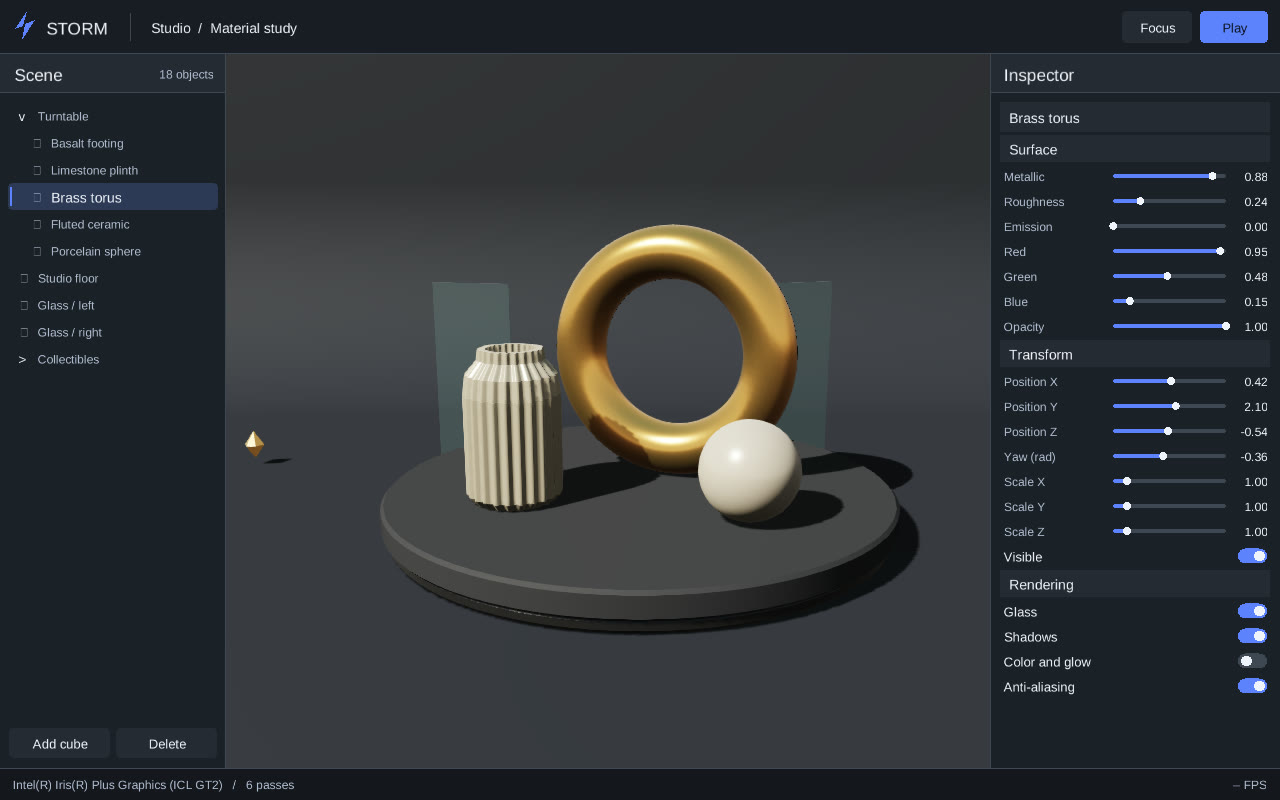
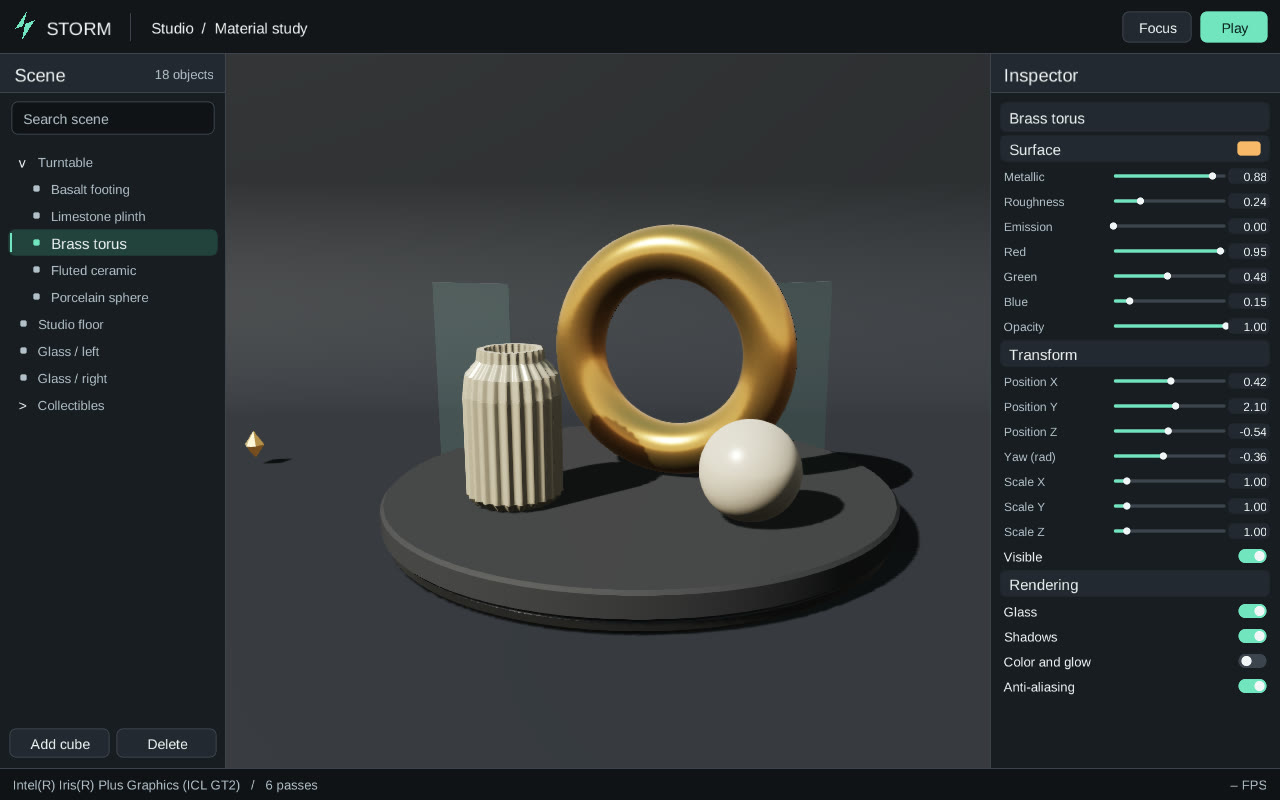
Visa det nya Studio och dokumentera hur agenter ansluter

diff --git a/README.md b/README.md
@@ -40,7 +40,32 @@ dunder run --example scene      # ECS + glTF + textlayout, utan fönster
 dunder test                     # rotpaketets tester
 ```
 
-## Spela och bygg med en agent
+## Redigera Studio med en agent
+
+Starta en lokal Studio-session och anslut MCP-servern `storm-editor` från
+[repots MCP-konfiguration](.mcp.json). Agenten kan läsa det öppna scenträdet,
+söka och välja objekt, skapa grupper och primitiver, ändra transform,
+synlighet och material samt hämta en PNG av samma vy.
+
+```sh
+dunder build -o build/storm
+./build/storm --editor-session .storm-editor
+```
+
+CLI:t använder samma kommandon och skriver JSON. Kör det från reporoten i
+en andra terminal.
+
+```sh
+./build/storm --editor-command '{"name":"tools/list"}'
+./build/storm --editor-session .storm-editor --editor-command '{"name":"editor_inspect"}'
+./build/storm --editor-session .storm-editor --editor-command '{"name":"editor_search","arguments":{"query":"brass"}}'
+```
+
+Sökfältet i Studio matchar namn även inuti stängda grenar. Tab flyttar fokus
+och Esc lämnar sökfältet. Använd `--editor-headless --editor-session FIL` för
+automation utanför ett fönster. Studio-ändringar gäller under sessionen.
+
+## Provspela med en agent
 
 I First light styr du spelaren med WASD eller piltangenterna och hoppar med mellanslag. Q pausar och R börjar om.
 
@@ -50,7 +75,7 @@ dunder build -o build/storm
 ./build/storm --scene bana.storm.json --watch
 ```
 
-Repots [MCP-konfiguration](.mcp.json) startar `./build/storm --mcp` från reporoten. En agent kan bygga en bana, provspela bestämda indata och få både positioner och en PNG från GPU:n. Med `--watch` syns nästa sparade banändring i samma fönster. En sparad bana kan öppnas igen med `--scene`.
+MCP-servern `storm` startar `./build/storm --mcp` från reporoten. En agent kan bygga en bana, provspela bestämda indata och få både positioner och en PNG från GPU:n. Med `--watch` syns nästa sparade banändring i samma fönster. En sparad bana kan öppnas igen med `--scene`. [MCP-konfiguration](.mcp.json)
 
 ## Paket
 
@@ -70,14 +95,14 @@ Storms egna paket följer med i samma Git-klon och kan byggas och testas var fö
 | [`packages/storm-assets`](packages/storm-assets) | Placerar glTF-modeller i scenen och laddar deras materialtexturer genom grafikgränssnittet. | `core`, `ecs`, `gfx`, `gltf`, `image`, `scene` |
 | [`packages/storm-physics`](packages/storm-physics) | Gravitation, impulser, friktion och kollisioner mellan sfärer och axelriktade lådor. | `core` |
 | [`packages/storm-runtime`](packages/storm-runtime) | Spelfönster, provspelningens klocka, scenbevakning och projektgränssnittet `Project`. | Grafikgränssnitt, renderare, scen, indata och UI |
-| [`packages/storm-editor`](packages/storm-editor) | Scenträd, objektval, inspektör och scenredigering. | Scen, ECS och UI |
-| [`packages/storm-studio`](packages/storm-studio) | Materialstudie och redigeringsläge i Storms utvecklarprogram. | Runtime, editor och tillgångar |
+| [`packages/storm-editor`](packages/storm-editor) | Sökbart scenträd, objektval, inspektör och typade redigeringskommandon. | Scen, ECS och UI |
+| [`packages/storm-studio`](packages/storm-studio) | Materialstudie, arbetsyta och lokal redigeringssession för MCP och CLI. | Runtime, editor, tillgångar och MCP |
 | [`packages/storm-play`](packages/storm-play) | Scenformat, fast simuleringstakt, spelarkontroll och målsensorer. | `core`, `physics` |
-| [`packages/storm-mcp`](packages/storm-mcp) | Agentverktyg över stdio som styr samma spelsession som fönstret. | `play`, `image` |
+| [`packages/storm-mcp`](packages/storm-mcp) | JSON-RPC över stdio, validering av verktygsargument och First light-verktyg. | `play`, `image` |
 | [`packages/storm-image`](packages/storm-image) | Renderarens bild som PNG, och PNG samt JPEG (baseline och progressivt; 4:4:4, 4:2:2, 4:2:0, grå, restart-markörer) som RGBA8, valt på filens signatur — 12-bitars JPEG, bitdjup 16 i PNG och Adam7 vägras. Ren Dunder, zlib från Dunder-repot. | `zlib` (git) |
 | [`packages/storm-input`](packages/storm-input) | En fly-kamera (WASD, Space/Ctrl, Shift, höger musknapp) styrd av en `gfx.Input`. Importerar ingen backend, så kameran är testbar utan fönster. | `core`, `gfx` |
 | [`packages/storm-text`](packages/storm-text) | Glyfatlas på `dunder-skrift`: rasterisering till 8-bitars coverage, shelf-packing, textlayout till quads, och `find_font` som hittar platformens font. | `dunder-skrift` |
-| [`packages/storm-ui`](packages/storm-ui) | Immediate-mode UI: canvas som emitterar vertexar i punkter, samt widgets (`button`, `slider`, `row`) med `Pointer` och hot/active-id. Testbar utan fönster. | `text` |
+| [`packages/storm-ui`](packages/storm-ui) | Immediate-mode UI med kantutjämnad vektorgeometri, typade vyer, textfält, knappar, reglage och tangentfokus. Testbar utan fönster. | `text` |
 
 `src/main.ddr` väljer backend. Samma `storm-render` ritar Studio, provspelningen och förhandsbilderna från MCP. Spel kan använda `storm-runtime` för fönsterloopen eller anropa `render.frame.Renderer` med egen loop. Studio och editorn är valfria för spelreleasen. Se [paketgränserna](docs/design.md#21-spelprojekt-och-studio).
 

diff --git a/docs/design.md b/docs/design.md
@@ -35,11 +35,10 @@
 
 ## 1. Nuläge (mätt i koden, 2026-11-25)
 
-- **storm-gfx**: en modul med `Frame`, `Input` med `Key` (19 tangenter
-  som bitar i en `u32`), `Mouse` (med `scroll`), `Sky`, `Surface`, `Texture`,
-  `Sampler` och `Vertex`, `PostProcess`.
-  `trait Backend` beskriver pass, ritning, texturer och bildexport i 22 metoder
-  (`begin_pass` och `begin` är standardkroppar). Anrop som kan misslyckas
+- **storm-gfx**: en modul med `Frame`, `Input` med `Key` som bitar i en
+  `u32`, `Mouse` med `scroll`, `Sky`, `Surface`, `Texture`, `Sampler`,
+  `Vertex` och `PostProcess`. `trait Backend` beskriver pass, ritning,
+  texturer, bildexport och textinmatning. Anrop som kan misslyckas
   returnerar `Result`. Geometrihjälparna äger vertexformatet — meshens
   (`Vertex`, `VERTEX_FLOATS`/`VERTEX_BYTES` och offsets, `vertex_at`/
   `put_vertex`) och UI-strömmens (`UiVertex`, `UI_FLOATS`/`UI_BYTES`/
@@ -252,6 +251,14 @@ Vad som skiljer backends åt, och var det får synas:
 - **`storm-assets`** placerar glTF-modeller vid deras författade origo. Värden väljer placering och skala. Studio passar in dem på podiet. Texturer delas mellan material med samma bild, sampler och färgrymd. Uppladdningspaketet äger sina unika handtag och kan frigöras när scenen har slutat använda dem. Ett misslyckat anrop frigör de handtag det skapade.
 - **`storm-play` och scenverktygen i `storm-mcp`** ger en liten referens för scenformat och regler. Ett spel kan äga andra regler och exponera egna verktyg via `mcp.protocol`.
 
+Studio äger arbetsytans lokala session. MCP och CLI skickar validerade
+kommandon till den öppna arbetsytan. Editorns kommandon muterar samma
+`scene.Graph` som inspektören läser. En ändring valideras i sin helhet före
+mutation. Runtime behandlar kommandon mellan bildrutorna och levererar en
+begärd skärmbild först efter UI-passet. `storm-ui` tar emot text och
+tangenthändelser genom ett gemensamt gränssnitt. AppKit och SDL översätter
+plattformens indata till det formatet.
+
 ## 3. Enums i FFI-lagret
 
 Dunder har enums med värden, `match`, `i32(x)` och validerande `X(number)`.
@@ -394,7 +401,7 @@ vara **pixelidentiska** (AE = 0) om inte steget medvetet ändrar bilden.
 
 ## 5b. Editorn och scenen, som den står
 
-Materialstudien och dess provsamlarobjekt hör till `storm-studio`. `storm-editor` hanterar dockning och objektredigering och kan öppna en hierarki från valfri värd. Det kompakta läget visar en sidopanel i taget. [Visuell referens](design/storm-editor-reference.png)
+Materialstudien och dess provsamlarobjekt hör till `storm-studio`. `storm-editor` hanterar dockning och objektredigering och kan öppna en hierarki från valfri värd. Det kompakta läget visar en sidopanel i taget. Reglagen och panelerna använder vektorgeometri med en mjuk alfakant. Textatlasen anpassas till skärmens pixeltäthet. [Visuell referens från ImageGen](design/storm-editor-mint-reference.png)
 
 ECS-grafen äger geometri, material och transformer. Hierarkin och geometrin har var sin revision. Editorn härleder synliga trädrader ur hierarkin och dess öppna grenar. Renderaren hämtar en ägd kopia av meshströmmarna när geometrins revision ändras. Revisionen identifierar en bestämd version av geometrin inom processen. Det gör att renderaren kan växla mellan grafer och uppdatera poser genom samma anrop. Under en bildruta innehåller varje ritpost en transform, ett material och ett index i den kopian. Skuggpasset och huvudpasset läser samma vertexdata. Bara genomskinliga objekt sorteras.
 

diff --git a/docs/dogfood.md b/docs/dogfood.md
@@ -1175,3 +1175,20 @@ fn pick(shape: Option<scene.Shape>) -> bool {
 ```
 
 `dunder check d.ddr` → `checked d.ddr (2 modules)`; `dunder fmt --check d.ddr` → `d.ddr:5:26: expected ')'`, utgång 1 (kolumn 26 är punkten efter `Shape`). Mätt varianter: `.Some(Shape.Cube)` med enumen i samma fil → både `check` och `fmt` gröna; `.Some(scene.Shape.Cube)` genom en import → `check` grönt, `fmt` rött. Formateraren har alltså en egen mönsterparser som klarar en nivå av kvalificering men inte två, och den hänger inte med när kompilatorns grammatik utökas — samma grund som fynd 87 (två parserar, ett språk). Workaround här: bind nyttolasten och jämför — `.Some(shape) => { found = shape == scene.Shape.Cube && … }` (`Shape` är `i32`-backed, så `==` går; `Option<Shape>` saknar `Eq`, så `if x == .Some(scene.Shape.Cube)` är `E3004` och inget alternativ). Rekommendation: låt `fmt` och kompilatorn dela mönstergrammatiken — en form som den ena accepterar och den andra vägrar gör `fmt --check` i pushlistan till ett fel på korrekt kod, och nästa fix i den ena parsern är en ny skillregel i den andra.
+
+**113. En lokal referens från `ref_at` nekas även i ett `unsafe`-block (Dunder 0.13.1).** När AppKit tar emot text från en callback behöver den läsa sin fasta händelsebuffert. Att binda `ref_at(sink_address())` till `&mut Sink` ger `E4003: local borrow requires a named owner; temporary borrows are limited to calls`. En namngiven pekare leder i stället till `E4005: scoped borrow analysis was not prepared`. Minimal repro:
+
+```dunder
+capability unsafe
+struct Counter { value: i32 }
+
+fn main() {
+    unsafe {
+        address := static_bytes("native", 8)
+        counter: &mut Counter = ref_at(address)
+        counter.value = 1
+    }
+}
+```
+
+Storm skickar `ref_at(address)` direkt till en funktion med en lånad parameter. Den formen går att bygga och köra. Dunder bör ge samma konkreta råd om anropsformen för båda diagnostikerna.

diff --git a/docs/next-steps.md b/docs/next-steps.md
@@ -60,6 +60,10 @@ Instancing (5), fler ljus (7) och input (8) kommer efter det.
 
 Fönsterloopen finns i `storm-runtime`. `storm-editor` äger redigeringen och `storm-studio` bygger materialstudien. Projektgränssnittet för externa spel beskrivs i [designen](design.md#21-spelprojekt-och-studio).
 
+Studio har ett sökbart scenträd, kantutjämnade kontroller och en lokal MCP-
+och CLI-session för redigering i samma graf. Spara och läsa tillbaka en
+författad Studio-scen och ångra redigeringskommandon återstår.
+
 ## Byggtid på Mikparchy
 
 Senaste mätning: **9 648 och 9 633 ms** på `8cc9859` (två `tools/build-time.ddr` + en `dunder build --timings`, 2026-11-27), Dunder **0.13.1**, Mikparchy: `compiler=` 8 482 / 8 459 ms, `module_load_lex_resolve` 902 / 893 ms, **1 608 funktioner och 355 061 MIR-operationer**. Budgeten är 20 s. Trädet är detsamma som mätte 18,4–19,8 s under 0.12.0 (512 017 operationer, fynd 98): kompilatorn halverade tiden och tog bort 157 000 operationer — inget i Storm ändrades för det. **Alla siffror nedanför i det här avsnittet och i "Kvar i 3c" (18 557 → 18 776 ms, 94 % av budgeten) är 0.12.0-mätningar**: de är jämförbara med varandra, inte med ett 0.13.1-bygge, och det som är sant av dem är fortfarande det *relativa* (PNG kostade 1 100 ms och JPEG 220 ms när de nådde `main`; under 0.13.1 mätte fynd 98 PNG till 42 ms och JPEG till 27). En ny mätning skriver alltid kompilatorversionen vid talet.
